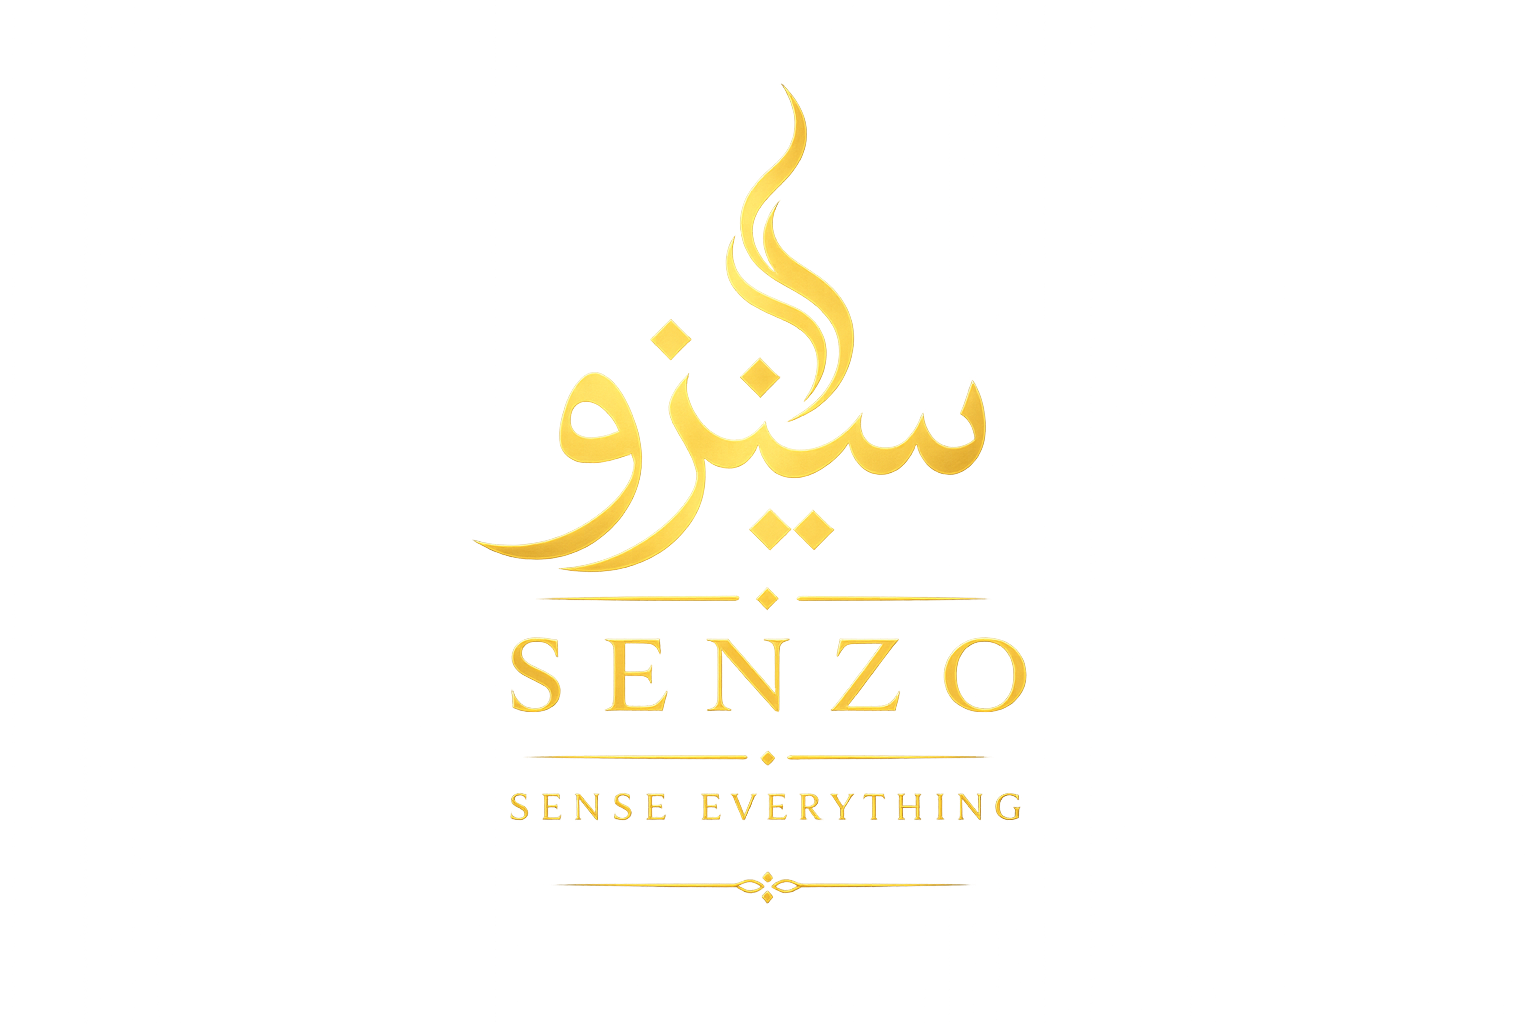
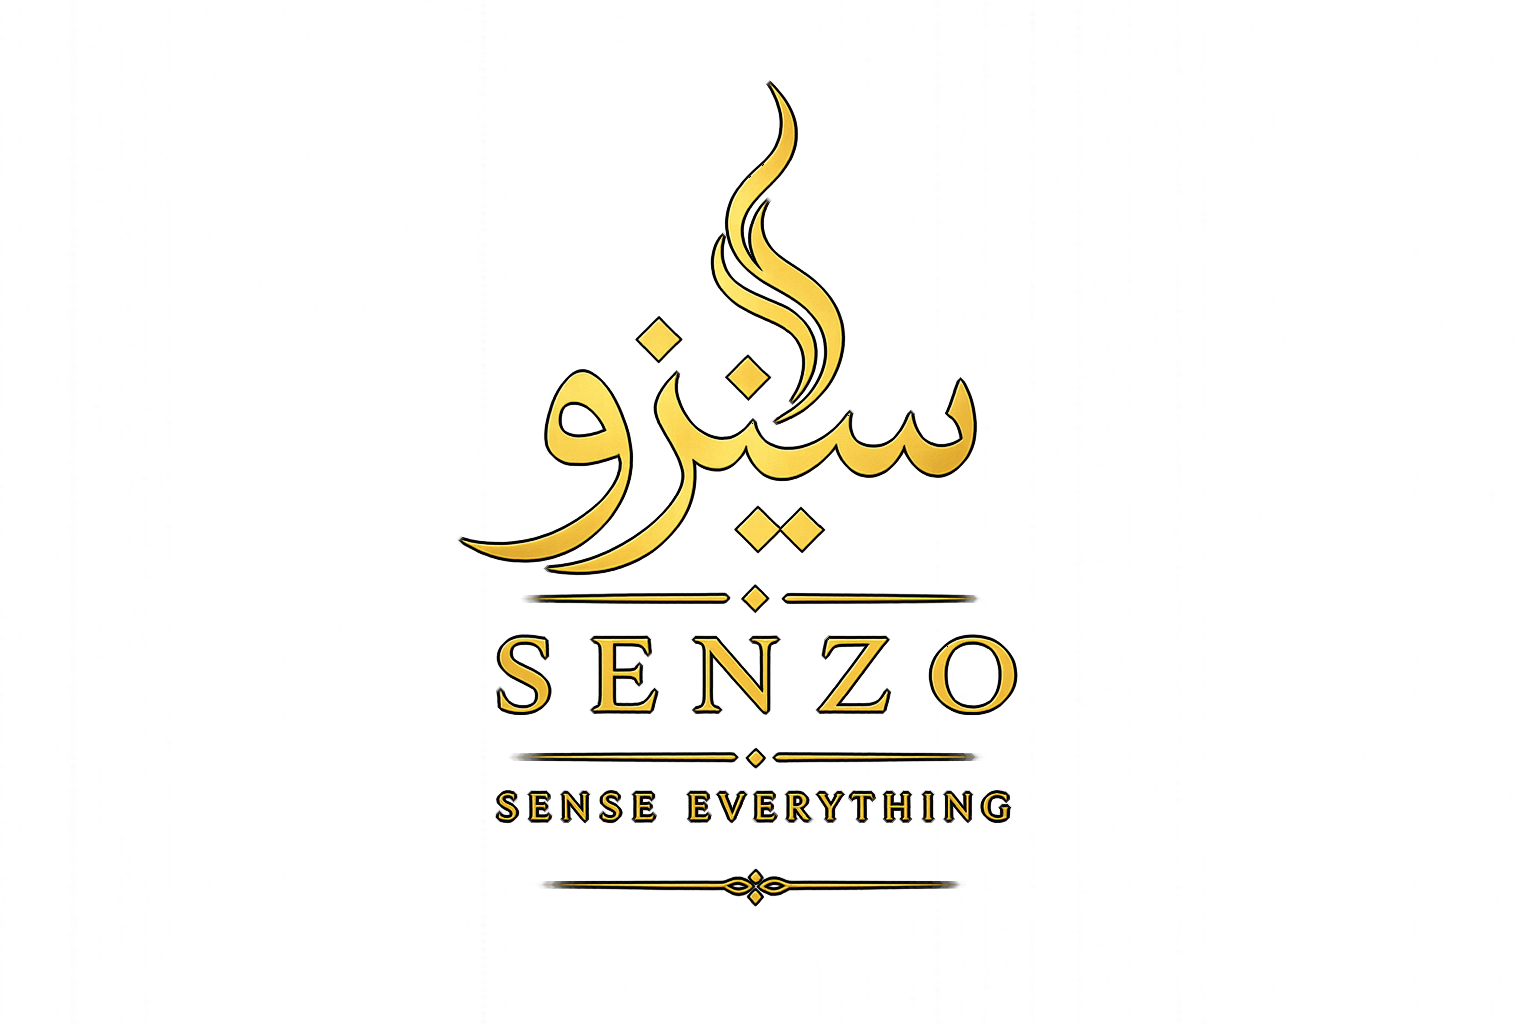
fix(navbar): clear search input after submit on desktop and mobile
- reset query state after navigating to /products
- add missing search functionality to MobileDrawer (was UI-only before)
- close mobile drawer on search since user navigates away

Changed region(s): [[0.3104, 0.0938, 0.683, 0.8125], [0.3415, 0.8438, 0.6209, 0.875]]

diff --git a/client/src/components/common/Footer.jsx b/client/src/components/common/Footer.jsx
@@ -1,143 +1,191 @@
-import { Input } from "@/components/ui/input";
+import { Link } from "react-router-dom";
 import { Button } from "@/components/ui/button";
-import { ScanFace } from "lucide-react";
+import { Input } from "@/components/ui/input";
 
-const footerSections = [
-  {
-    title: "Shop",
-    links: ["Laptops", "Phones", "Audio", "Accessories"],
-  },
-  {
-    title: "Customer Service",
-    links: ["Contact Us", "Shipping & Delivery", "Returns", "FAQ"],
-  },
-  {
-    title: "Company",
-    links: ["About Us", "Careers", "Blog", "Privacy Policy"],
-  },
-  {
-    title: "Support",
-    links: ["Help Center", "Terms & Conditions"],
-  },
+const collections = [
+  { label: "Senzo Oud", to: "/collections/oud" },
+  { label: "Senzo Air", to: "/collections/air" },
+  { label: "Senzo Sound", to: "/collections/sound" },
 ];
 
-const socialLinks = [
-  { icon: ScanFace, label: "Facebook" },
-  { icon: ScanFace, label: "Twitter" },
-  { icon: ScanFace, label: "Instagram" },
-  { icon: ScanFace, label: "YouTube" },
-  { icon: ScanFace, label: "LinkedIn" },
+const shopLinks = [
+  { label: "All Fragrances", to: "/shop" },
+  { label: "Best Sellers", to: "/shop?sort=popular" },
+  { label: "Gift Sets", to: "/shop/gift-sets" },
+  { label: "New Arrivals", to: "/shop?sort=newest" },
 ];
 
-function FooterColumn({ title, links }) {
-  return (
-    <div>
-      <h3 className="mb-4 text-sm font-semibold text-white">{title}</h3>
-      <ul className="space-y-2.5">
-        {links.map((link) => (
-          <li key={link}>
-            <button className="text-sm text-gray-400 transition-colors hover:text-white">
-              {link}
-            </button>
-          </li>
-        ))}
-      </ul>
-    </div>
-  );
-}
+const supportLinks = [
+  { label: "Track Order", to: "/orders/track" },
+  { label: "Shipping & Delivery", to: "/shipping" },
+  { label: "Return Policy", to: "/returns" },
+  { label: "Contact Us", to: "https://facebook.com/SenzoBD" },
+];
 
-function SocialIcon({ icon: Icon, label }) {
+const Footer = () => {
   return (
-    <button
-      aria-label={label}
-      className="flex h-9 w-9 items-center justify-center rounded-full border border-white/10 bg-white/5 text-gray-300 transition-all hover:border-orange-500/50 hover:text-white"
-    >
-      <Icon size={16} />
-    </button>
-  );
-}
+    <footer className="bg-zinc-950 text-zinc-200 border-t border-zinc-900">
+      <div className="max-w-[1300px] mx-auto px-6 lg:px-10 pt-16 pb-10">
+        {/* Ornamental divider */}
+        <div className="flex items-center justify-center gap-3 mb-14">
+          <span className="h-px w-16 bg-zinc-800" />
+          <span className="h-2 w-2 rotate-45 border border-zinc-700" />
+          <span className="h-px w-16 bg-zinc-800" />
+        </div>
 
-function PaymentBadge({ children }) {
-  return (
-    <div className="text-sm font-medium tracking-wide text-white/90">
-      {children}
-    </div>
-  );
-}
+        <div className="grid grid-cols-1 sm:grid-cols-2 lg:grid-cols-[1.3fr_1fr_1fr_1.3fr] gap-10 pb-12 border-b border-zinc-900">
+          {/* Brand */}
+          <div>
+            <Link to="/" className="inline-block">
+              <span className="text-3xl tracking-wide text-white font-bold font-serif">
+                Senzo
+              </span>
+            </Link>
+            <p className="mt-4 text-sm leading-relaxed max-w-xs text-zinc-300">
+              Fragrance made for warmer air and longer evenings — crafted in
+              small batches, worn across Bangladesh.
+            </p>
 
-export default function Footer() {
-  return (
-    <footer className="w-full bg-[#0B0D12] text-white">
-      <div className="mx-auto max-w-7xl px-4 sm:px-6 lg:px-8">
-        {/* Newsletter */}
-        <div className="border-b border-white/10 py-8">
-          <div className="grid gap-6 lg:grid-cols-[1fr_auto] lg:items-center">
-            <div>
-              <h2 className="text-xl font-semibold sm:text-2xl">
-                Get the latest updates and offers
-              </h2>
-              <p className="mt-2 text-sm text-gray-400">
-                Subscribe to our newsletter for exclusive news and special
-                deals.
-              </p>
+            {/* MapPin Placeholder */}
+            <div className="flex items-center gap-2 mt-5 text-sm text-zinc-300">
+              <span className="text-xs text-zinc-400 font-bold">[📍]</span>
+              <span>Bogura, Bangladesh</span>
             </div>
 
-            <form className="flex w-full flex-col gap-3 sm:flex-row lg:w-auto">
+            {/* Social Icons Placeholders */}
+            <div className="flex items-center gap-3 mt-5">
+              <a
+                href="https://facebook.com/SenzoBD"
+                target="_blank"
+                rel="noopener noreferrer"
+                aria-label="Senzo on Facebook"
+                className="h-9 w-9 text-xs rounded-full border border-zinc-700 flex items-center justify-center text-zinc-300 hover:border-white hover:text-white hover:bg-zinc-900 transition-colors"
+              >
+                FB
+              </a>
+
+              <a
+                href="https://instagram.com/senzobd"
+                target="_blank"
+                rel="noopener noreferrer"
+                aria-label="Senzo on Instagram"
+                className="h-9 w-9 text-xs rounded-full border border-zinc-700 flex items-center justify-center text-zinc-300 hover:border-white hover:text-white hover:bg-zinc-900 transition-colors"
+              >
+                IG
+              </a>
+            </div>
+          </div>
+
+          {/* Collections */}
+          <div>
+            <h3 className="text-sm font-semibold text-white tracking-wide uppercase mb-4">
+              Collections
+            </h3>
+            <ul className="space-y-3 text-sm">
+              {collections.map((item) => (
+                <li key={item.label}>
+                  <Link
+                    to={item.to}
+                    className="hover:text-white hover:underline decoration-zinc-600 underline-offset-4 transition-all"
+                  >
+                    {item.label}
+                  </Link>
+                </li>
+              ))}
+            </ul>
+          </div>
+
+          {/* Shop */}
+          <div>
+            <h3 className="text-sm font-semibold text-white tracking-wide uppercase mb-4">
+              Shop
+            </h3>
+            <ul className="space-y-3 text-sm">
+              {shopLinks.map((item) => (
+                <li key={item.label}>
+                  <Link
+                    to={item.to}
+                    className="hover:text-white hover:underline decoration-zinc-600 underline-offset-4 transition-all"
+                  >
+                    {item.label}
+                  </Link>
+                </li>
+              ))}
+            </ul>
+          </div>
+
+          {/* Support + Newsletter */}
+          <div>
+            <h3 className="text-sm font-semibold text-white tracking-wide uppercase mb-4">
+              Support
+            </h3>
+            <ul className="space-y-3 text-sm mb-6">
+              {supportLinks.map((item) => (
+                <li key={item.label}>
+                  {item.to.startsWith("http") ? (
+                    <a
+                      href={item.to}
+                      target="_blank"
+                      rel="noopener noreferrer"
+                      className="hover:text-white hover:underline decoration-zinc-600 underline-offset-4 transition-all"
+                    >
+                      {item.label}
+                    </a>
+                  ) : (
+                    <Link
+                      to={item.to}
+                      className="hover:text-white hover:underline decoration-zinc-600 underline-offset-4 transition-all"
+                    >
+                      {item.label}
+                    </Link>
+                  )}
+                </li>
+              ))}
+            </ul>
+
+            <h3 className="text-sm font-semibold text-white tracking-wide uppercase mb-3">
+              New blend drops
+            </h3>
+            <form className="flex gap-2" onSubmit={(e) => e.preventDefault()}>
               <Input
                 type="email"
-                placeholder="Enter your email"
-                className="h-11 min-w-[280px] border-white/10 bg-white text-black placeholder:text-gray-500 focus-visible:ring-orange-500"
+                placeholder="Your email"
+                className="bg-transparent border-zinc-700 text-white placeholder:text-zinc-500 focus-visible:ring-zinc-500"
               />
-              <Button className="h-11 rounded-md bg-orange-500 px-6 font-medium text-white hover:bg-orange-600">
-                Subscribe
+              <Button
+                type="submit"
+                size="icon"
+                className="bg-white hover:bg-zinc-200 text-zinc-950 shrink-0 font-bold"
+                aria-label="Subscribe"
+              >
+                →
               </Button>
             </form>
           </div>
         </div>
 
-        {/* Main Footer */}
-        <div className="grid gap-10 py-10 md:grid-cols-2 lg:grid-cols-[1.2fr_repeat(4,1fr)]">
-          <div>
-            <div className="mb-4 flex items-center gap-2">
-              <div className="text-lg font-bold tracking-tight">TechHub</div>
-            </div>
-
-            <p className="max-w-xs text-sm leading-6 text-gray-400">
-              Your one-stop shop for the latest tech gadgets.
-            </p>
-
-            <div className="mt-6 flex flex-wrap gap-3">
-              {socialLinks.map((item) => (
-                <SocialIcon
-                  key={item.label}
-                  icon={item.icon}
-                  label={item.label}
-                />
-              ))}
-            </div>
+        {/* Bottom bar */}
+        <div className="flex flex-col sm:flex-row items-center justify-between gap-4 pt-6 text-xs text-zinc-400">
+          <p>© {new Date().getFullYear()} Senzo. Crafted in Bangladesh.</p>
+          <div className="flex items-center gap-3 text-zinc-300">
+            <span>Cash on Delivery</span>
+            <span className="text-zinc-700">·</span>
+            <span>bKash</span>
+            <span className="text-zinc-700">·</span>
+            <span>Nagad</span>
           </div>
-
-          {footerSections.map((section) => (
-            <FooterColumn
-              key={section.title}
-              title={section.title}
-              links={section.links}
-            />
-          ))}
-        </div>
-
-        {/* Bottom Bar */}
-        <div className="flex flex-col gap-4 border-t border-white/10 py-6 text-sm text-gray-400 md:flex-row md:items-center md:justify-between">
-          <p>© 2024 TechHub. All rights reserved.</p>
-
-          <div className="flex flex-wrap items-center gap-6">
-            <PaymentBadge>VISA</PaymentBadge>
-            <PaymentBadge>Mastercard</PaymentBadge>
-            <PaymentBadge>PayPal</PaymentBadge>
-            <PaymentBadge>Apple Pay</PaymentBadge>
+          <div className="flex items-center gap-4">
+            <Link to="/privacy" className="hover:text-white transition-colors">
+              Privacy
+            </Link>
+            <Link to="/terms" className="hover:text-white transition-colors">
+              Terms
+            </Link>
           </div>
         </div>
       </div>
     </footer>
   );
-}
+};
+
+export default Footer;

diff --git a/client/src/components/common/navbar/Mobiledrawer.jsx b/client/src/components/common/navbar/Mobiledrawer.jsx
@@ -11,20 +11,39 @@ import {
   Package,
   LayoutDashboard,
 } from "lucide-react";
-import { Link } from "react-router-dom";
+import { Link, useNavigate } from "react-router-dom";
 import { SIDEBAR_DATA, NAV_LINKS } from "./NavData";
 import { useUserStore } from "../../../store/userStore";
 
 const MobileDrawer = ({ isOpen, onClose }) => {
   const [navView, setNavView] = useState("categories");
   const [expandedCat, setExpandedCat] = useState(null);
+  const [searchQuery, setSearchQuery] = useState("");
 
+  const navigate = useNavigate();
   const user = useUserStore((s) => s.user);
   const clearUser = useUserStore((s) => s.clearUser);
   const isAdmin = user?.role === "Admin";
 
   const toggleCat = (name) =>
     setExpandedCat((prev) => (prev === name ? null : name));
+  const handleSearch = () => {
+    const trimmed = searchQuery.trim();
+    if (!trimmed) return;
+
+    const params = new URLSearchParams();
+    params.set("search", trimmed);
+
+    navigate(`/products?${params.toString()}`);
+    setSearchQuery(""); // clear after search
+    onClose(); // close drawer since we navigated away
+  };
+
+  const handleSearchKeyDown = (e) => {
+    if (e.key === "Enter") {
+      handleSearch();
+    }
+  };
 
   const handleSignOut = () => {
     clearUser();
@@ -76,9 +95,18 @@ const MobileDrawer = ({ isOpen, onClose }) => {
         {/* Search */}
         <div className="px-5 py-4 border-b border-gray-100 bg-gray-50/50">
           <div className="flex items-center bg-white border border-gray-200 rounded-xl px-3 py-2.5 shadow-sm">
-            <Search size={18} className="text-gray-400 mr-2" />
+            <button
+              onClick={handleSearch}
+              aria-label="Search"
+              className="mr-2 text-gray-400 hover:text-orange-600 transition-colors"
+            >
+              <Search size={18} />
+            </button>
             <input
               type="text"
+              value={searchQuery}
+              onChange={(e) => setSearchQuery(e.target.value)}
+              onKeyDown={handleSearchKeyDown}
               placeholder="Search products..."
               className="w-full text-[14px] bg-transparent outline-none placeholder:text-gray-400 text-gray-800"
             />

diff --git a/client/src/components/common/navbar/Navbrand.jsx b/client/src/components/common/navbar/Navbrand.jsx
@@ -1,6 +1,6 @@
 import React from "react";
 import { Menu } from "lucide-react";
-import senzo from '@/assets/senzo.png';
+import senzo from "@/assets/senzo.png"; // new transparent version
 
 const NavBrand = ({ onMobileMenuOpen }) => (
   <div className="flex items-center gap-3 lg:gap-4">
@@ -16,7 +16,7 @@ const NavBrand = ({ onMobileMenuOpen }) => (
       <img
         src={senzo}
         alt="Senzo Brand Logo"
-        className="h-20 sm:h-24 w-auto object-contain mix-blend-multiply"
+        className="h-20 sm:h-24 w-auto object-contain"
       />
     </div>
   </div>

diff --git a/client/src/components/common/navbar/SearchBar.jsx b/client/src/components/common/navbar/SearchBar.jsx
@@ -25,6 +25,7 @@ const SearchBar = ({ selectedCategory, onCategoryChange }) => {
     }
 
     navigate(`/products?${params.toString()}`);
+    setQuery(""); // clear after search
   };
 
   const handleKeyDown = (e) => {
